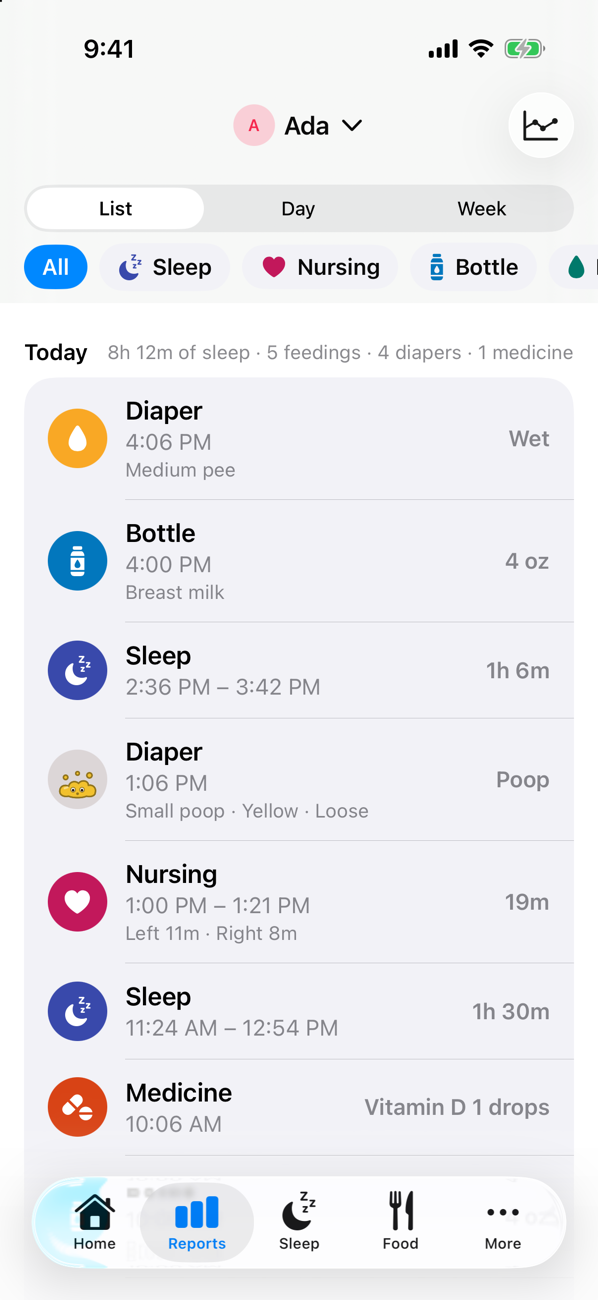
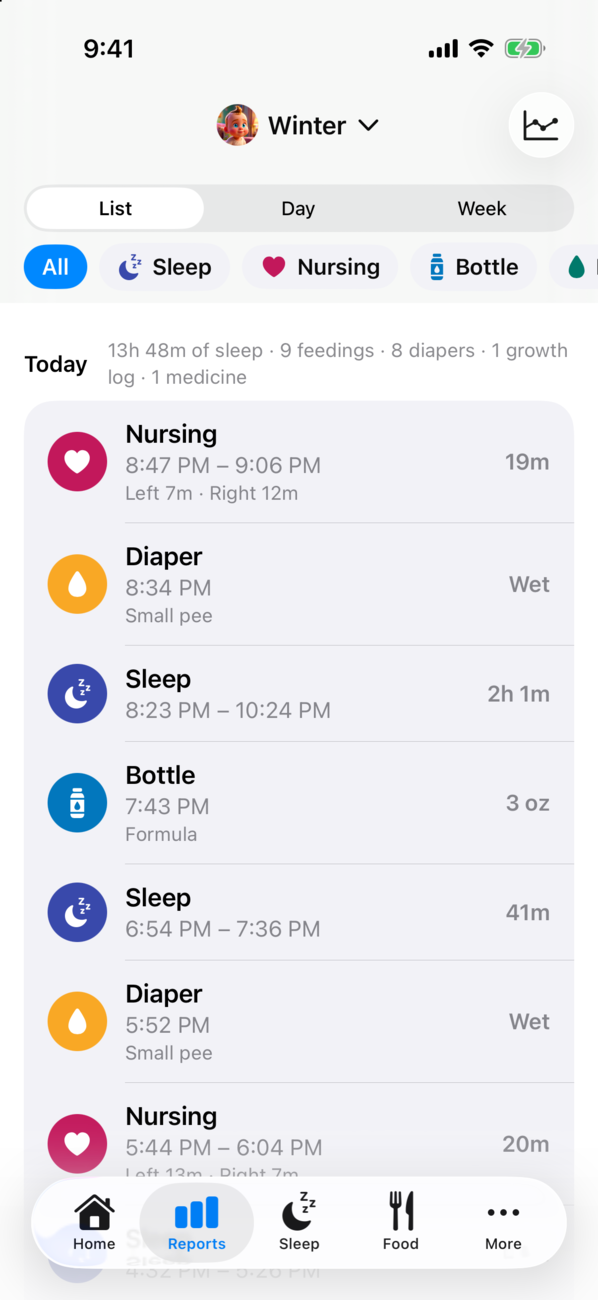
Retake the site's screenshots with Winter and a profile photo
The home page now shows Winter, a 5-week-old with a photo, across Home,
the nursing timer, the Lock Screen Live Activity, Reports, the Sleep tab
and the growth chart. Winter's logs are demo data on an offline copy of
the baby, so the shots show a full week.

The FAQ's More, Manage family and Profile shots are retaken with a
profile photo, and the sharing answer gains the invite in Notifications.
Every email address is replaced with an example.com one.

diff --git a/docs/faq.md b/docs/faq.md
@@ -36,8 +36,9 @@ No. You can track your baby on a single device without signing in. Create an acc
 Sign in, then go to **More** → **Manage family**, pick your baby, start a family and invite members by email. They'll get an email and see the invite under **More** → **Notifications**, where they can accept it.
 
 <div class="faq-shots" markdown>
-![The More tab with Manage family and Notifications](assets/screenshots/more-family.png){ .faq-shot loading=lazy }
+![The More tab with the profile, Manage family and Notifications](assets/screenshots/more-family.png){ .faq-shot loading=lazy }
 ![Manage family with the owner, an invited member and the invite by email form](assets/screenshots/manage-family.png){ .faq-shot loading=lazy }
+![An invite to join Winter's family in Notifications, with Decline and Accept](assets/screenshots/notifications.png){ .faq-shot loading=lazy }
 </div>
 
 ### Do changes show up on everyone's phone?

diff --git a/docs/index.md b/docs/index.md
@@ -20,7 +20,7 @@ glance, and know when the next nap is coming.
 </div>
 
 <div class="hero-shot" markdown>
-![Totly's Home screen with the next nap suggestion and activity tiles](assets/screenshots/home.png){ .screenshot loading=lazy }
+![Totly's Home screen for Winter, with the back-to-sleep suggestion and activity tiles](assets/screenshots/home.png){ .screenshot loading=lazy }
 </div>
 
 </div>
@@ -121,7 +121,7 @@ measurements in lb and oz or kg, and inches or cm.
 </div>
 
 <div class="feature-shot" markdown>
-![A weight chart plotted against the WHO percentiles, showing the 43rd percentile](assets/screenshots/growth.png){ .screenshot loading=lazy }
+![A weight chart plotted against the WHO percentiles, showing the 41st percentile](assets/screenshots/growth.png){ .screenshot loading=lazy }
 </div>
 
 </div>
